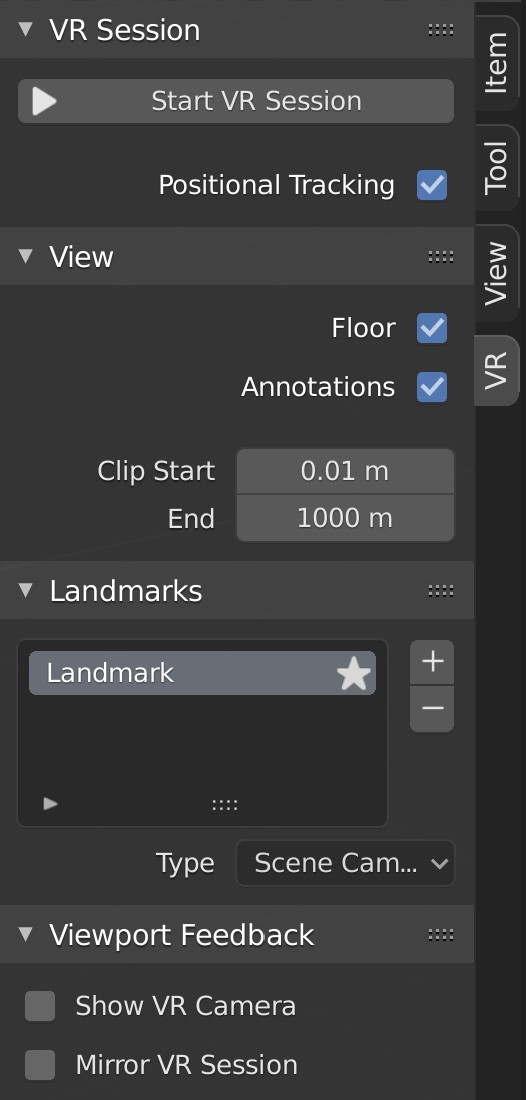
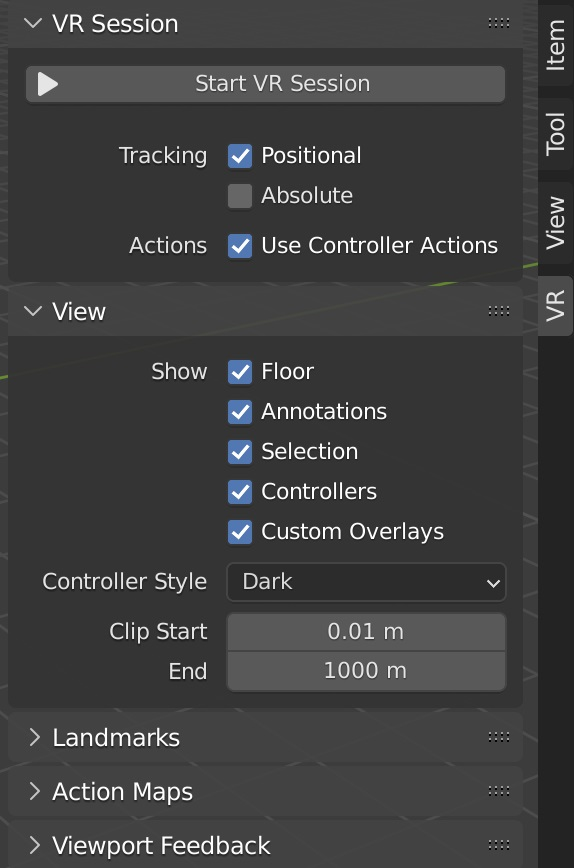
VR: Update scene inspection add-on documentation
git-svn-id: https://svn.blender.org/svnroot/bf-manual/trunk/blender_docs@8515 c4de1f47-6596-e411-a384-0024e86c2797

diff --git a/manual/addons/3d_view/vr_scene_inspection.rst b/manual/addons/3d_view/vr_scene_inspection.rst
@@ -25,36 +25,66 @@ Interface
 Located in the :menuselection:`3D Viewport --> Sidebar --> VR tab`.
 
 .. figure:: /images/addons_3d-view_vr-scene-inspection_example.jpg
-   :align: right
    :width: 220px
 
 
 VR Session
 ----------
 
+.. figure:: /images/addons_3d-view_vr-scene-inspection_vr-session.jpg
+   :align: right
+   :width: 220px
+
 Start VR Session
    Try to set up a connection to the OpenXR platform to share the viewport with
    an :ref:`HMD <hardware-head-mounted-displays>`.
-Positional Tracking
-   Only track rotational changes of the head, do not allow the HMD to affect the location of
-   the viewer in virtual space.
+Tracking
+   - Positional
+      Only track rotational changes of the head, do not allow the HMD
+      to affect the location of the viewer in virtual space.
+   - Absolute
+      Skip eye offsets that are normally added for placing the viewer
+      exactly at landmarks. This allows the tracking origin to be defined
+      independently of the HMD position.
+Use Controller Actions
+   Enable default controller actions for viewport navigation,
+   controller tracking, and haptics.
 
 
 View
 ----
 
-Floor
-   Set visibility of the ground plane in the VR view.
-Annotations
-   Set visibility of annotation strokes in the VR view.
+.. figure:: /images/addons_3d-view_vr-scene-inspection_view.jpg
+   :align: right
+   :width: 220px
+
+Show
+   - Floor
+      Set visibility of the ground plane in the VR view.
+   - Annotations
+      Set visibility of annotation strokes in the VR view.
+   - Selection
+      Set visibility of selection outlines in the VR view.
+   - Controllers
+      Set visibility of VR motion controllers. 
+      Requires enabling the `Use Controller Actions <VR Session_>`_ option.
+   - Custom Overlays
+      Set visibility of custom operator drawing (e.g. default teleport beam).
+Controller Style
+   Preferred visualization of VR motion controllers. 
 Clip Start/End
-   Clipping values of the VR view, :ref:`as in the 3D Viewport <3dview-view-clip>`.
+   Clipping values of the VR view, :ref:`as in the 3D Viewport<3dview-view-clip>`.
 
 
 Landmarks
 ---------
 
 Landmarks are used to store reusable base poses (position and rotation) for the viewer in the virtual space.
+In addition, a base viewer reference scale can be set for landmarks of types Custom Object and Custom Pose.
+
+.. figure:: /images/addons_3d-view_vr-scene-inspection_landmarks.jpg
+   :align: right
+   :width: 220px
 
 Landmark
    A :ref:`list view <ui-list-view>`.
@@ -62,7 +92,7 @@ Landmark
    Selected Landmark
       Defines which landmark's settings are shown below the list.
       Changing the selected landmark does not have an influence on the VR view.
-   Activate (star icon)
+   Activate (circle icon)
       Activates a landmark, making it change the base pose of the VR view.
    Add ``+``
       Create a landmark.
@@ -71,16 +101,50 @@ Landmark
 Type
    Scene Camera
       Follow the :ref:`scene's active camera<scene-camera>` to define the base pose of the viewer.
-   Custom Camera
-      Set an arbitrary camera to define the base pose of the viewer.
+   Custom Object
+      Set an arbitrary object to define the base pose of the viewer.
+   Custom Pose
+      Manually define a position and rotation to use as the base pose of the viewer.
+
+
+Action Maps
+-----------
+
+.. figure:: /images/addons_3d-view_vr-scene-inspection_action-maps.jpg
+   :align: right
+   :width: 220px
+
+Gamepad
+   Use input from a gamepad (Microsoft Xbox Controller) instead of motion controllers for
+   VR actions such as viewport navigation.
+Extensions
+   Enable additional controller bindings to ensure correct input-to-action mappings.
+   Note that a given extension may not be supported by all 
+   :ref:`VR platforms <hardware-head-mounted-displays>`. 
+
+   - HP Reverb G2
+      Enable bindings for the HP Reverb G2 controllers.
+   - HTC Vive Cosmos
+      Enable bindings for the HTC Vive Cosmos controllers.
+   - Huawei
+      Enable bindings for the Huawei controllers.
 
 
 Viewport Feedback
 -----------------
 
+.. figure:: /images/addons_3d-view_vr-scene-inspection_viewport-feedback.jpg
+   :align: right
+   :width: 220px
+
 Show VR Camera
    Draw an indicator of the current VR viewer pose (location and rotation in the virtual space)
    in the current 3D Viewport.
+Show VR Controllers
+   Draw indicators of tracked VR motion controllers in the current 3D viewport.
+   Requires enabling the `Use Controller Actions <VR Session_>`_ option.
+Show Landmarks
+   Draw `landmark <Landmarks_>`_ indicators in the current 3D Viewport.
 Mirror VR Session
    Make the current 3D Viewport follow the perspective of the VR view.
 
@@ -90,9 +154,9 @@ Mirror VR Session
    :Category:  3D View
    :Description: View the viewport with virtual reality glasses (head-mounted displays).
    :Location: :menuselection:`3D Viewport --> Sidebar --> VR tab`
-   :File: viewport_vr_preview.py
-   :Author: Julian Eisel
-   :Maintainer: Julian Eisel
+   :File: viewport_vr_preview/__init__.py
+   :Author: Julian Eisel, Sebastian Koenig, Peter Kim
+   :Maintainer: Julian Eisel, Peter Kim
    :License: GPL
    :Support Level: Official
    :Note: This add-on is bundled with Blender.
